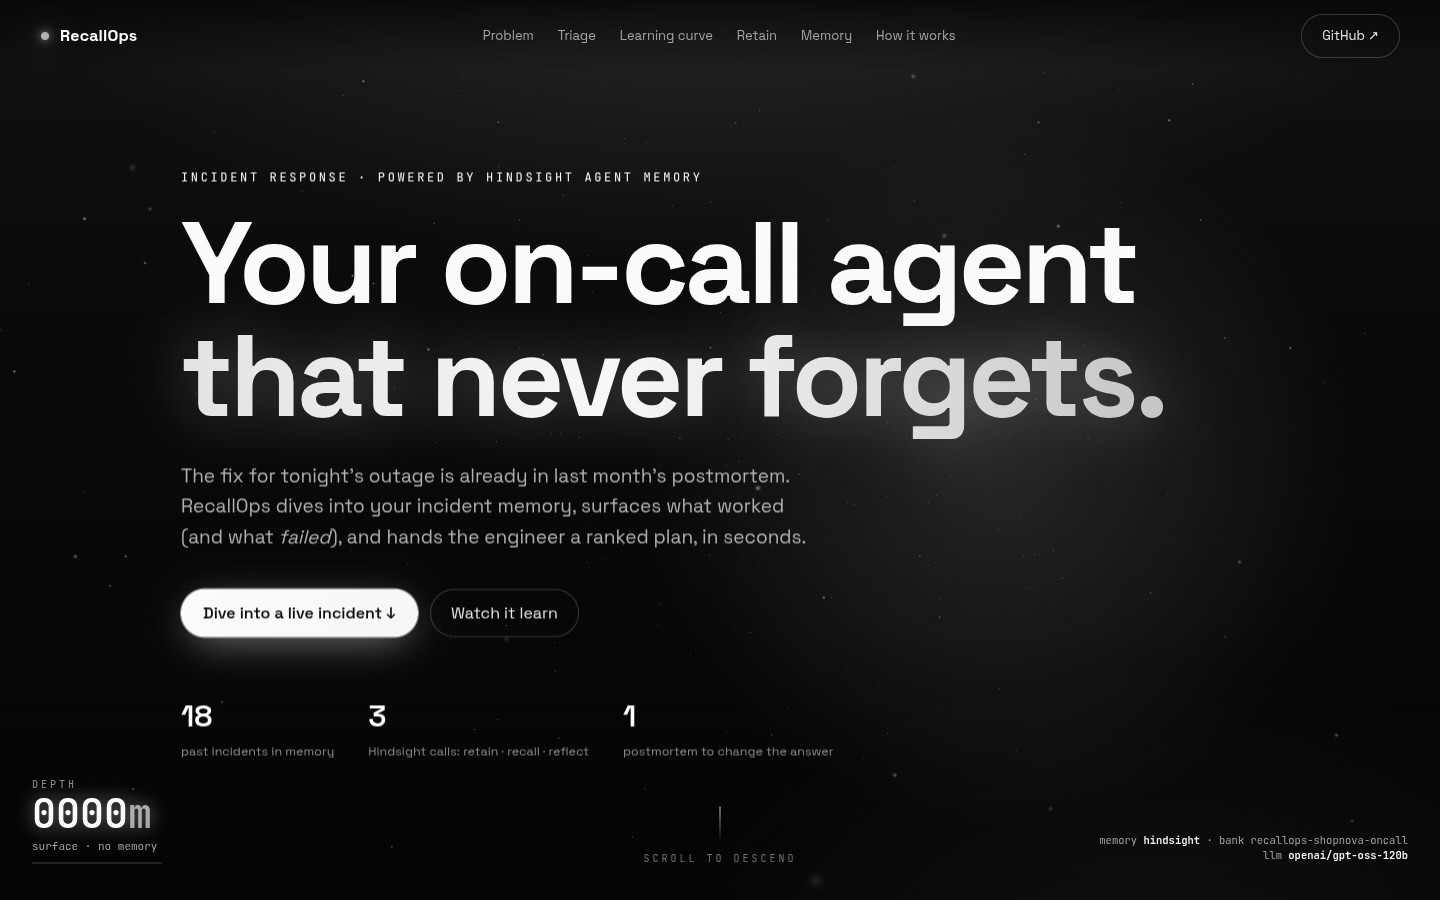
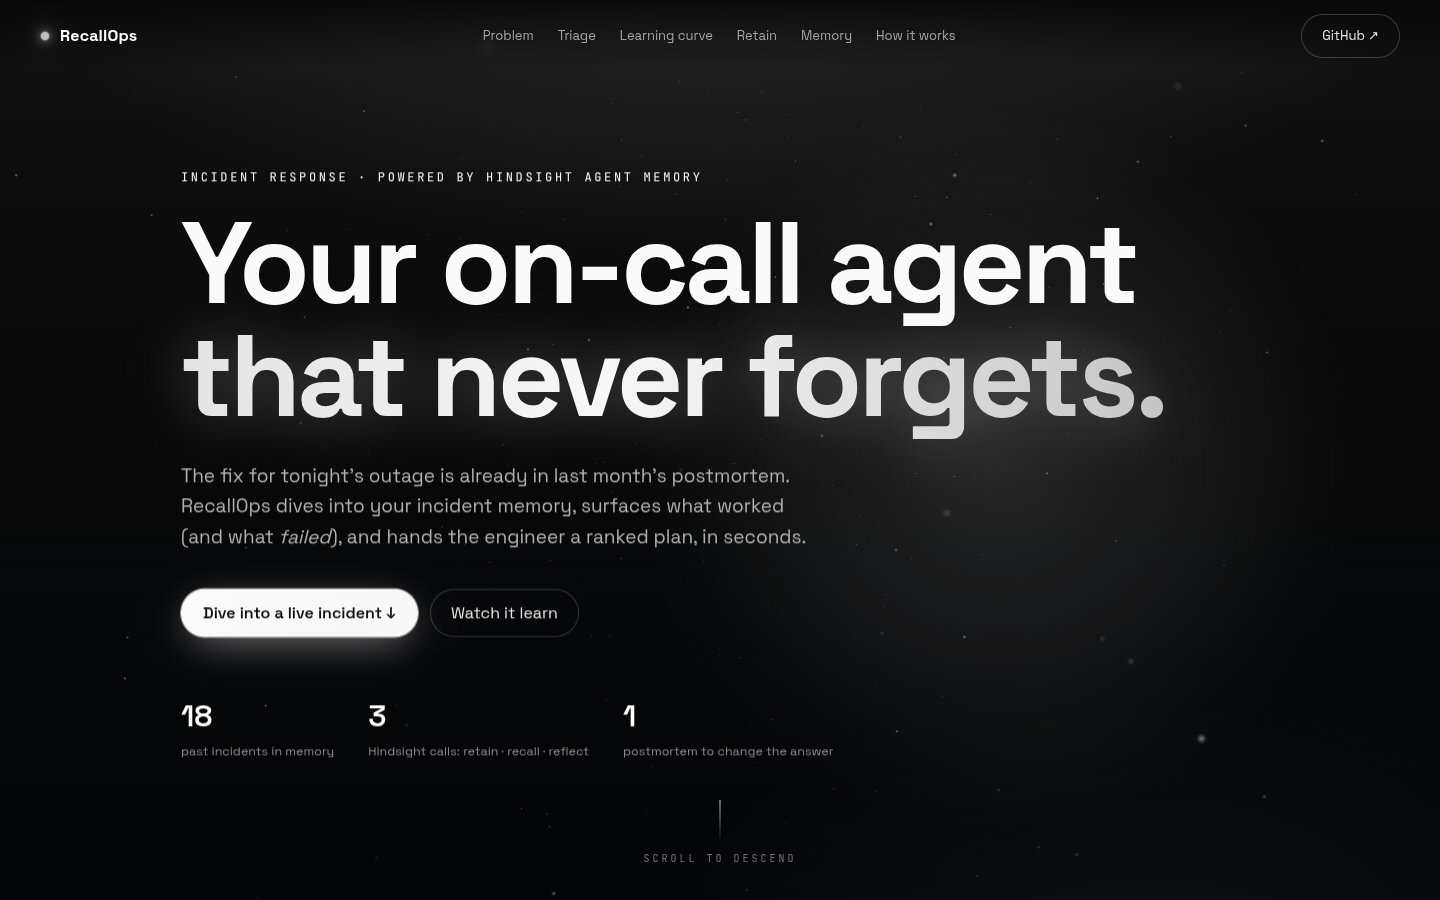
Web: remove depth gauge, depth labels and bottom-right status text

Changed region(s): [[0.0, 0.8711, 0.125, 0.9644], [0.875, 0.9333, 0.9688, 0.9644]]

diff --git a/web/public/index.html b/web/public/index.html
@@ -32,13 +32,6 @@
   </nav>
   <a href="https://github.com/Madhan-raj-k/recall-ops" class="btn-ghost text-[13px]">GitHub ↗</a>
 </header>
-<aside class="depth" aria-live="off">
-  <div class="depth-label">DEPTH</div>
-  <div class="depth-num"><span id="depthNum">0000</span><span class="text-neutral-200/70">m</span></div>
-  <div id="depthZone" class="depth-zone">surface · no memory</div>
-  <div class="depth-bar"><div id="depthFill"></div></div>
-</aside>
-<div id="svcStatus" class="svc">connecting…</div>
 
 <main id="top">
 <!-- HERO -->
@@ -60,7 +53,7 @@
 
 <!-- PROBLEM -->
 <section id="problem" class="sect">
-  <div class="kicker">200 m · the problem</div>
+  <div class="kicker">the problem</div>
   <h2 class="h2 reveal">At 3 AM, nobody remembers last month's outage.</h2>
   <div class="grid md:grid-cols-3 gap-5 mt-10">
     <div class="glass p-6 reveal"><div class="stat">3×</div><p>The same payments service broke after a deploy three times in eight weeks, with three different root causes.</p></div>
@@ -71,7 +64,7 @@
 
 <!-- TRIAGE -->
 <section id="triage" class="sect">
-  <div class="kicker">800 m · live triage</div>
+  <div class="kicker">live triage</div>
   <h2 class="h2 reveal">Same alert. Same model. One has memory.</h2>
   <p class="lead reveal">Pick an alert. The left agent answers from nothing. The right one calls Hindsight <code>recall</code> + <code>reflect</code> over ShopNova's incident history (synthetic) before planning.</p>
   <div class="glass p-5 md:p-6 mt-8 reveal">
@@ -109,7 +102,7 @@
 
 <!-- LEARNING -->
 <section id="learning" class="sect">
-  <div class="kicker">1,800 m · learning curve</div>
+  <div class="kicker">learning curve</div>
   <h2 class="h2 reveal">Dive deeper: watch it get smarter.</h2>
   <p class="lead reveal">You get a private, empty memory bank. Interaction 1 knows nothing. Retain one postmortem, ask the same question, and the plan goes from guesswork to specific.</p>
   <div class="glass p-5 md:p-6 mt-8 reveal">
@@ -130,7 +123,7 @@
 
 <!-- RESOLVE -->
 <section id="resolve" class="sect">
-  <div class="kicker">2,600 m · retain</div>
+  <div class="kicker">retain</div>
   <h2 class="h2 reveal">Every resolved incident sinks into memory.</h2>
   <p class="lead reveal">Write down what fixed it and what didn't. It is retained into the shared ShopNova bank with its timestamp, service and team tags, and the next similar alert benefits.</p>
   <form id="resForm" class="glass p-5 md:p-6 mt-8 grid md:grid-cols-6 gap-3 text-sm reveal">
@@ -151,7 +144,7 @@
 
 <!-- EXPLORER -->
 <section id="explorer" class="sect">
-  <div class="kicker">3,400 m · the memory floor</div>
+  <div class="kicker">the memory floor</div>
   <h2 class="h2 reveal">What the agent actually remembers.</h2>
   <p class="lead reveal">Facts and consolidated observations that Hindsight extracted from postmortems, laid out on a timeline. Ask it anything.</p>
   <div class="glass p-5 md:p-6 mt-8 reveal">
@@ -165,7 +158,7 @@
 
 <!-- HOW -->
 <section id="how" class="sect">
-  <div class="kicker">4,000 m · how it works</div>
+  <div class="kicker">how it works</div>
   <h2 class="h2 reveal">Three calls. One memory bank.</h2>
   <div class="glass p-5 md:p-8 mt-8 reveal">
     <svg viewBox="0 0 900 260" class="w-full h-auto" role="img" aria-label="Diagram: postmortems are retained into the Hindsight bank; alerts recall and reflect from it to produce a plan">

diff --git a/web/public/app.js b/web/public/app.js
@@ -25,25 +25,13 @@ if (HAS_GSAP && !REDUCE) {
   gsap.from(".dnode", { scale: 0.4, opacity: 0, transformOrigin: "center", duration: 0.9, ease: "back.out(1.7)", stagger: 0.12, scrollTrigger: { trigger: "#how svg", start: "top 80%" } });
 }
 
-// ---------- depth counter ----------
-const ZONES = [
-  [0, "surface · no memory"], [0.12, "the problem · generic answers"], [0.25, "live triage · recalling incidents"],
-  [0.5, "learning curve · memory grows"], [0.66, "retain · postmortems sink in"], [0.8, "memory floor · every fact"], [0.93, "how it works"],
-];
-const MAX_DEPTH = 4200;
-let shownDepth = 0;
+// ---------- scroll depth (drives the background veil only) ----------
 function onScroll() {
   const max = document.documentElement.scrollHeight - window.innerHeight;
   const f = max > 0 ? Math.min(1, Math.max(0, window.scrollY / max)) : 0;
   document.documentElement.style.setProperty("--depth", f.toFixed(3));
-  const target = Math.round(f * MAX_DEPTH);
-  shownDepth += (target - shownDepth) * 0.25;
-  $("depthNum").textContent = String(Math.round(shownDepth)).padStart(4, "0");
-  $("depthFill").style.width = `${f * 100}%`;
-  let z = ZONES[0][1]; for (const [k, v] of ZONES) if (f >= k) z = v;
-  $("depthZone").textContent = z;
 }
-(function tick() { onScroll(); requestAnimationFrame(tick); })();
+window.addEventListener("scroll", onScroll, { passive: true }); onScroll();
 
 // ---------- UI helpers ----------
 const LOAD_MSGS_ON = ["descending into incident memory…", "recall(): semantic + keyword + graph + temporal…", "reranking past incidents…", "reflect(): reasoning like a senior SRE…", "grounding the plan in what worked…"];
@@ -97,7 +85,6 @@ async function api(path, opts = {}) {
 // ---------- status + examples ----------
 const LABELS = ["💳 payments-api 5xx after deploy", "🛒 empty carts · Redis evictions", "🗄 orders DB pool timeouts", "🔒 mobile SSL handshake failures"];
 api("/api/health").then((h) => {
-  $("svcStatus").innerHTML = `memory <b>${esc(h.memory)}</b> · bank ${esc(h.bank)}<br/>llm <b>${esc(h.llm || "offline")}</b>`;
   h.examples.forEach((ex, i) => {
     const b = document.createElement("button");
     b.className = "chip"; b.textContent = LABELS[i] || ex.slice(0, 40); b.title = ex;
@@ -105,7 +92,7 @@ api("/api/health").then((h) => {
     $("examples").appendChild(b);
   });
   if (!$("alert").value) { $("alert").value = h.examples[0]; countAlert(); }
-}).catch(() => { $("svcStatus").innerHTML = `<span style="color:#e0e0e0">API unavailable</span>`; });
+}).catch(() => { $("examples").textContent = "API unavailable right now."; });
 const countAlert = () => { $("alertCount").textContent = `${$("alert").value.length}/500`; };
 $("alert").addEventListener("input", countAlert);
 
